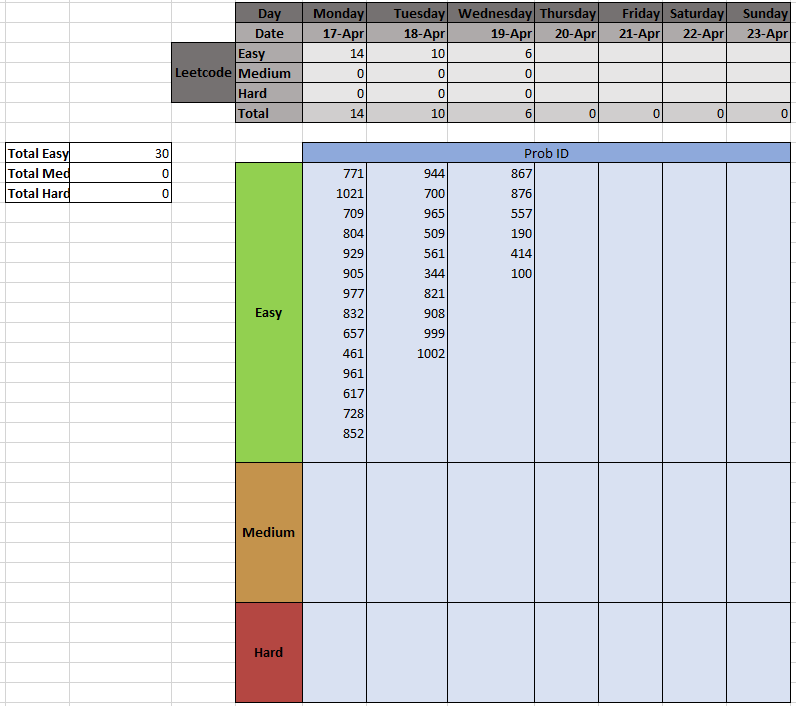
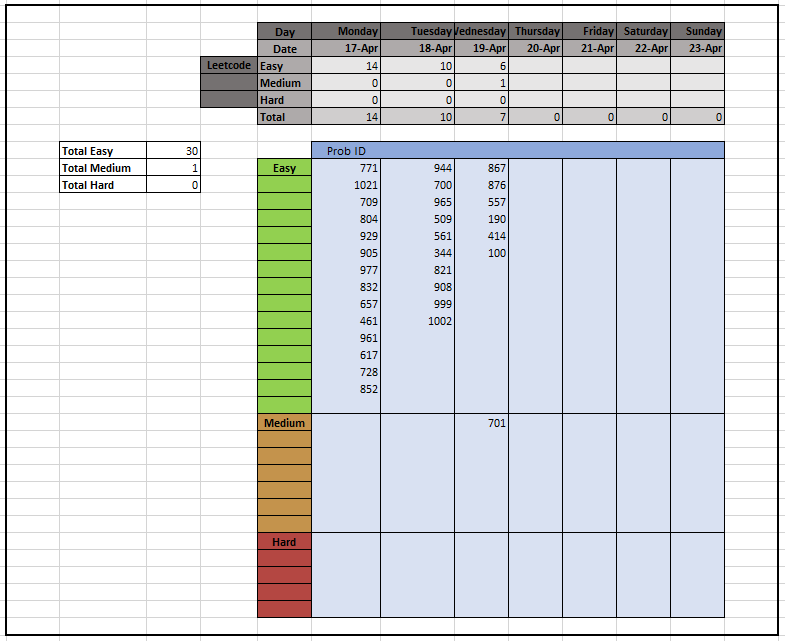
Medium 701 added

diff --git a/binarytreeinsert.py b/binarytreeinsert.py
@@ -1,0 +1,15 @@
+#Problem 701 - Recursive Solution ~5min
+class Solution:
+    def insertIntoBST(self, root: TreeNode, val: int) -> TreeNode:
+        if root != None:
+            if val > root.val:
+                if root.right == None:
+                    root.right = TreeNode(val)
+                else:
+                    self.insertIntoBST(root.right, val)
+            elif val < root.val:
+                if root.left == None:
+                    root.left = TreeNode(val)
+                else:
+                    self.insertIntoBST(root.left, val)
+        return root

diff --git a/README.md b/README.md
@@ -37,6 +37,7 @@ Answers to each problem set in corresponding languages repository
 * 190 Reverse Bits
 * 414 Third Maximum Number
 * 100 Same Tree
+* 701 Insert into a Binary Search Tree
 
 #### Image Log
 
